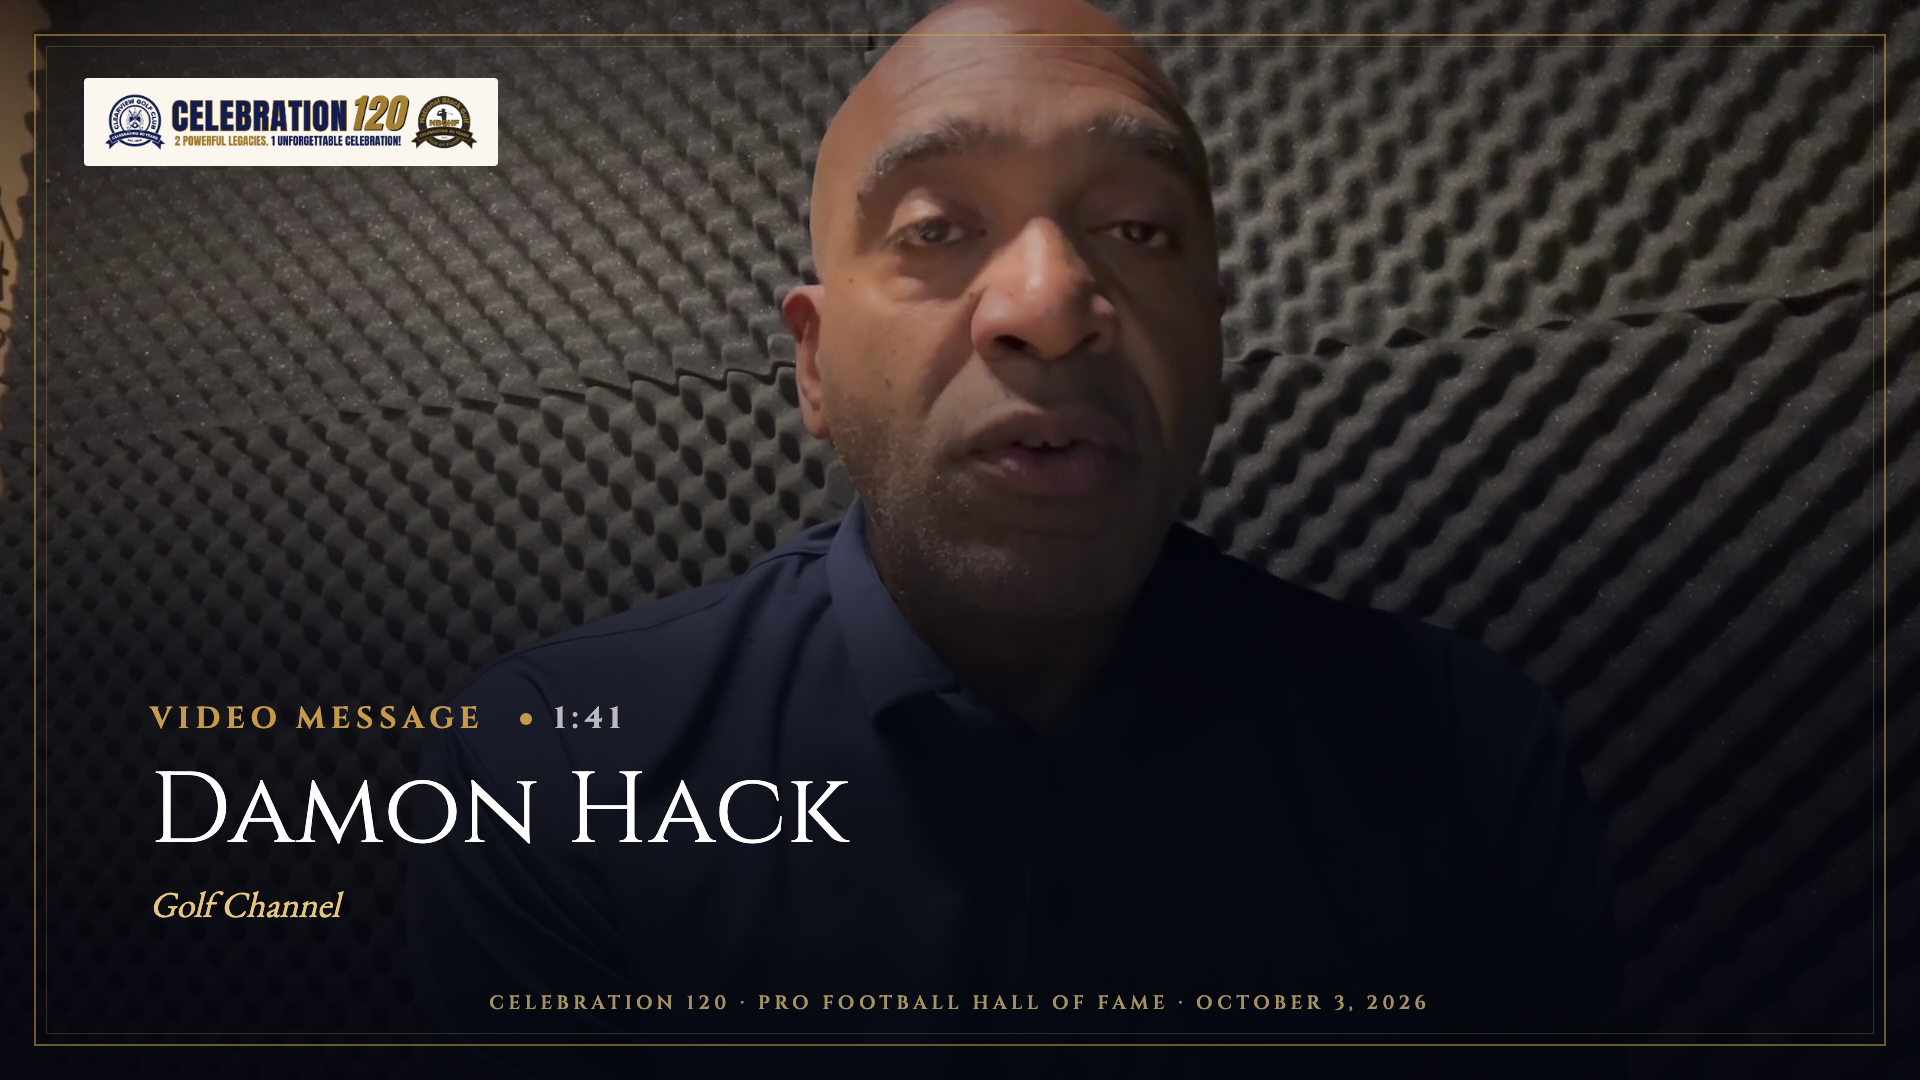
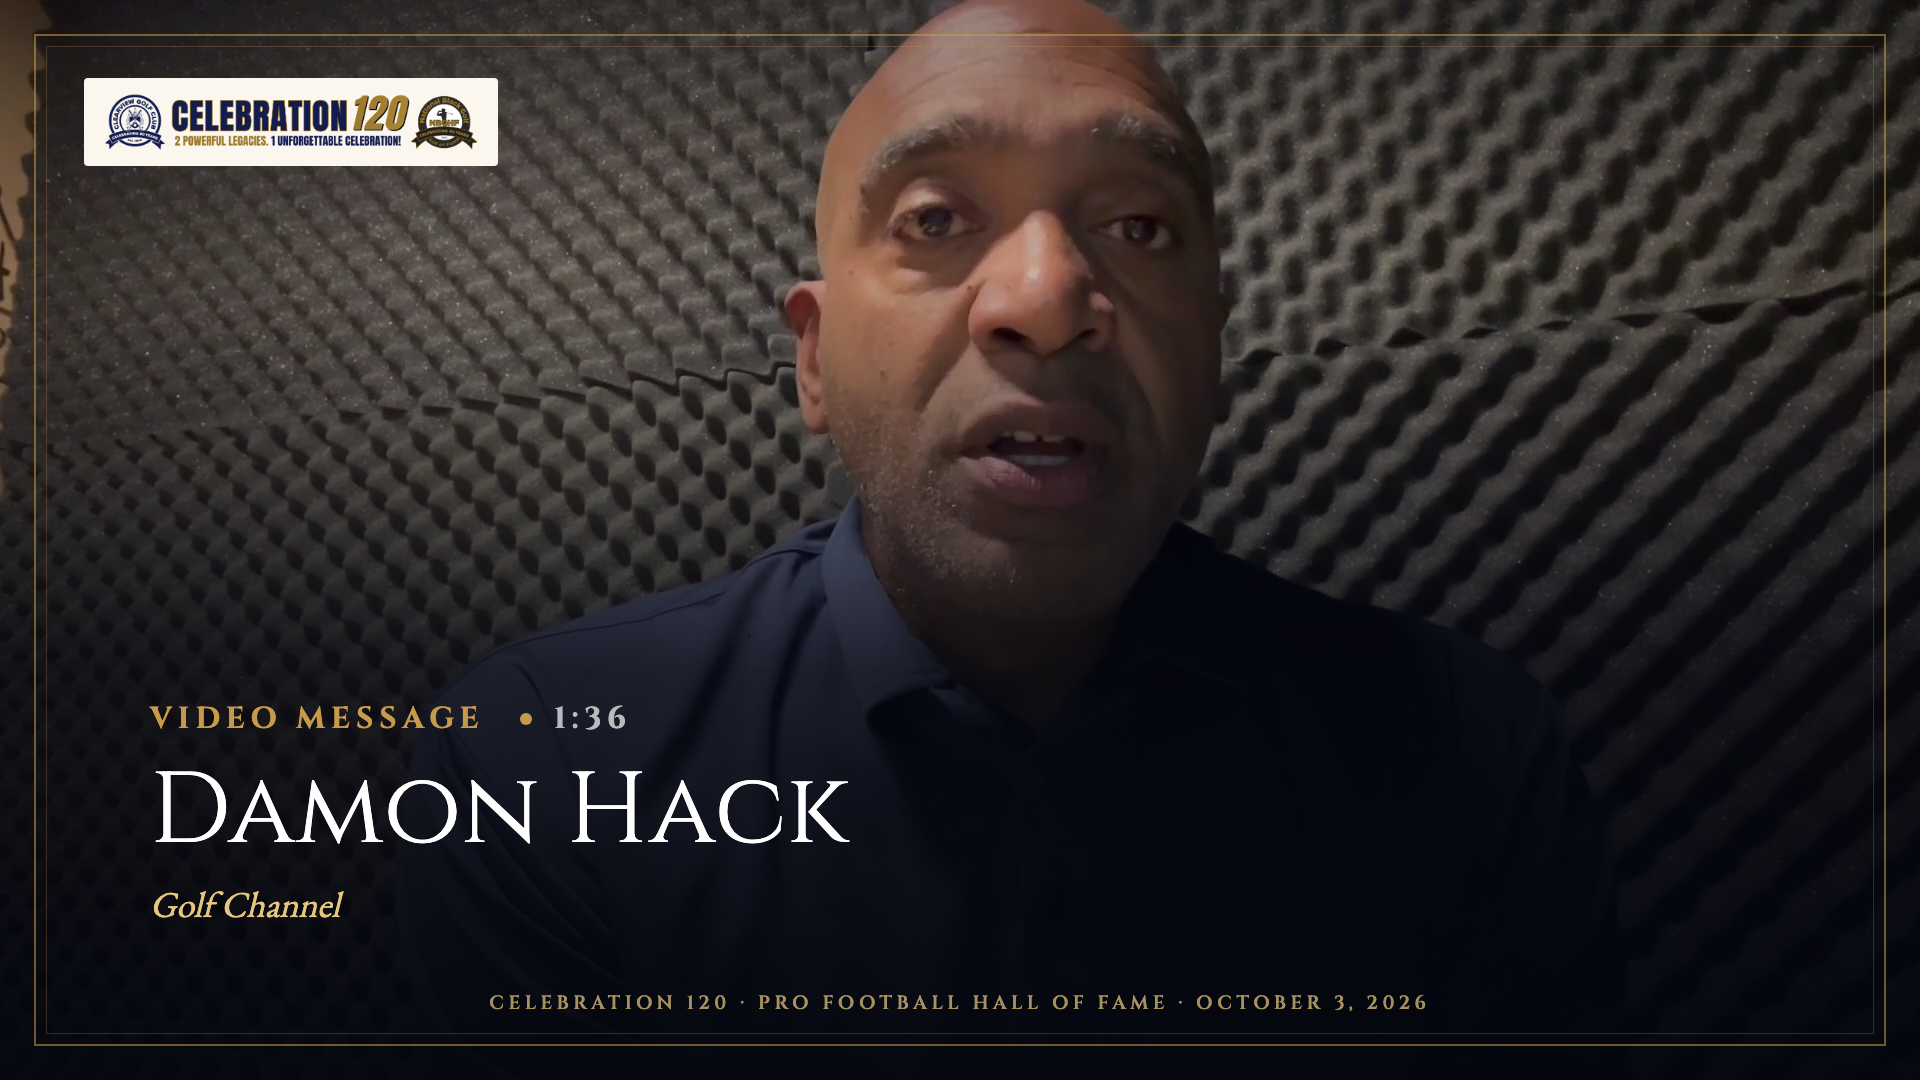
C120 show: new Pete and Damon run times

diff --git a/c120-show/index.html b/c120-show/index.html
@@ -26,7 +26,7 @@ body.presenting{cursor:none}body.presenting #panel{display:none}
 <p class="quiet">Videos start when you advance into their cue. At the end, they hold until you advance. Escape exits fullscreen. Hide these controls before the audience sees the screen. Keep this file beside the slides and videos folders.</p>
 </section>
 <script>
-const cues=[{"slug": "01_title", "image": "01_title.png", "notes": "WALK-IN LOOP: first five slides, through 04_legacies. Loop these while guests arrive and are seated.", "video": null, "poster": "01_title.png", "optional": false, "available": true}, {"slug": "02_hosts", "image": "02_hosts.png", "notes": "Walk-in loop. Event hosts, as printed in the program.", "video": null, "poster": "02_hosts.png", "optional": false, "available": true}, {"slug": "03_auction_walkin", "image": "03_auction_walkin.png", "notes": "Walk-in loop. Silent auction.", "video": null, "poster": "03_auction_walkin.png", "optional": false, "available": true}, {"slug": "03c_sponsors", "image": "03c_sponsors.png", "notes": "Walk-in loop. Thank you to our sponsors.", "video": null, "poster": "03c_sponsors.png", "optional": false, "available": true}, {"slug": "04_legacies", "image": "04_legacies.png", "notes": "Walk-in loop. The two founders.", "video": null, "poster": "04_legacies.png", "optional": false, "available": true}, {"slug": "05_opening_poem", "image": "05_opening_poem.png", "notes": "PROGRAM BEGINS. Advance to the next slide and PLAY: Valada's opening (3:00) runs straight into the announcer introducing Craig Kirby (0:58). One file, 3:58.", "video": null, "poster": "05_opening_poem.png", "optional": false, "available": true}, {"slug": "06_VIDEO_valada_mc", "image": null, "notes": "VIDEO 1. Valada Parker-Flewellyn, then the MC introduction. 3:58. When it ends Craig Kirby takes the stage; advance to Welcome.", "video": "00_Valada_Welcome_then_MC_Intro.mp4", "poster": "05_opening_poem.png", "optional": false, "available": true, "duration": 238.193}, {"slug": "07_welcome", "image": "07_welcome.png", "notes": "Craig Kirby, Master of Ceremonies.", "video": null, "poster": "07_welcome.png", "optional": false, "available": true}, {"slug": "08_invocation", "image": "08_invocation.png", "notes": "Invocation.", "video": null, "poster": "08_invocation.png", "optional": false, "available": true}, {"slug": "09_winners", "image": "09_winners.png", "notes": "Tournament winners from Saturday's golf at Clearview. If John sends winner names in time, a slide can follow.", "video": null, "poster": "09_winners.png", "optional": false, "available": true}, {"slug": "10_occasion", "image": "10_occasion.png", "notes": "Occasion. Ashaunta Epps.", "video": null, "poster": "10_occasion.png", "optional": false, "available": true}, {"slug": "11_committee", "image": "11_committee.png", "notes": "Advisory Committee Welcome. The twelve committee members are listed.", "video": null, "poster": "11_committee.png", "optional": false, "available": true}, {"slug": "12_lpga_pga", "image": "12_lpga_pga.png", "notes": "Recognition of LPGA and PGA members in the room.", "video": null, "poster": "12_lpga_pga.png", "optional": false, "available": true}, {"slug": "13_player_card", "image": "13_player_card.png", "notes": "Gary Player's video. IF THE VIDEO HAS ARRIVED, it plays on the next slide. If not, skip the next slide.", "video": null, "poster": "13_player_card.png", "optional": false, "available": true}, {"slug": "14_VIDEO_player", "image": "14_VIDEO_player.png", "notes": "Gary Player video. Play, then advance to Dinner when it ends.", "video": "04_Gary_Player_Message.mp4", "poster": "14_VIDEO_player.png", "optional": false, "available": true, "duration": 250.8}, {"slug": "15_dinner", "image": "15_dinner.png", "notes": "DINNER. Hold here, or loop the dinner, auction and legacy slides.", "video": null, "poster": "15_dinner.png", "optional": false, "available": true}, {"slug": "16_auction_lastcall", "image": "16_auction_lastcall.png", "notes": "Put this up around 8:15 PM. The auction closes at 8:30 PM.", "video": null, "poster": "16_auction_lastcall.png", "optional": false, "available": true}, {"slug": "17_damon_card", "image": "17_damon_card.png", "notes": "OPTIONAL. Damon Hack is not in the printed program. Play during dinner if John wants it.", "video": null, "poster": "17_damon_card.png", "optional": true, "available": true}, {"slug": "18_VIDEO_damon", "image": null, "notes": "VIDEO: Damon Hack, Golf Channel. 1:41. Optional, not in the printed program.", "video": "02_Damon_Hack_Golf_Channel.mp4", "poster": "17_damon_card.png", "optional": true, "available": true, "duration": 100.6}, {"slug": "19_class_intro", "image": "19_class_intro.png", "notes": "Jeff introduces the Class of 2027. Advance one inductee at a time.", "video": null, "poster": "19_class_intro.png", "optional": false, "available": true}, {"slug": "20_c27_clearview", "image": "20_c27_clearview.png", "notes": "Class of 2027: Clearview Golf Club.", "video": null, "poster": "20_c27_clearview.png", "optional": false, "available": true}, {"slug": "21_c27_stokes", "image": "21_c27_stokes.png", "notes": "Class of 2027: Ralph Stokes.", "video": null, "poster": "21_c27_stokes.png", "optional": false, "available": true}, {"slug": "22_c27_bentley", "image": "22_c27_bentley.png", "notes": "Class of 2027: Ken Bentley.", "video": null, "poster": "22_c27_bentley.png", "optional": false, "available": true}, {"slug": "23_c27_bacoate", "image": "23_c27_bacoate.png", "notes": "Class of 2027: Matthew Bacoate Jr.", "video": null, "poster": "23_c27_bacoate.png", "optional": false, "available": true}, {"slug": "24_c27_meekins", "image": "24_c27_meekins.png", "notes": "Class of 2027: Phyllis Meekins.", "video": null, "poster": "24_c27_meekins.png", "optional": false, "available": true}, {"slug": "25_c27_all", "image": "25_c27_all.png", "notes": "The full Class of 2027.", "video": null, "poster": "25_c27_all.png", "optional": false, "available": true}, {"slug": "26_jaw_intro", "image": "26_jaw_intro.png", "notes": "Jeff on the new John A. White facility. Two renderings follow.", "video": null, "poster": "26_jaw_intro.png", "optional": false, "available": true}, {"slug": "27_jaw_terrace", "image": "27_jaw_terrace.png", "notes": "John A. White rendering.", "video": null, "poster": "27_jaw_terrace.png", "optional": false, "available": true}, {"slug": "28_jaw_entrance", "image": "28_jaw_entrance.png", "notes": "John A. White rendering.", "video": null, "poster": "28_jaw_entrance.png", "optional": false, "available": true}, {"slug": "29_pete_card", "image": "29_pete_card.png", "notes": "Pete McDaniel's video is next.", "video": null, "poster": "29_pete_card.png", "optional": false, "available": true}, {"slug": "30_VIDEO_pete", "image": null, "notes": "VIDEO 2. Pete McDaniel. 3:07.", "video": "01_Pete_McDaniel_Message.mp4", "poster": "29_pete_card.png", "optional": false, "available": true, "duration": 186.7}, {"slug": "31_lookback", "image": "31_lookback.png", "notes": "A Look Back and Ahead. Jeff Dunovant and Renee Powell.", "video": null, "poster": "31_lookback.png", "optional": false, "available": true}, {"slug": "32_volunteers", "image": "32_volunteers.png", "notes": "Volunteer recognition and the toast.", "video": null, "poster": "32_volunteers.png", "optional": false, "available": true}, {"slug": "33_closing_card", "image": "33_closing_card.png", "notes": "The closing video tribute is next.", "video": null, "poster": "33_closing_card.png", "optional": false, "available": true}, {"slug": "34_VIDEO_closing", "image": null, "notes": "VIDEO 4. Closing tribute, Cultivating Land and Legacy. 3:14.", "video": "03_Closing_Video_Cultivating_Land_and_Legacy_Playback.mp4", "poster": "33_closing_card.png", "optional": false, "available": true, "duration": 193.898}, {"slug": "35_closing_remarks", "image": "35_closing_remarks.png", "notes": "Closing remarks.", "video": null, "poster": "35_closing_remarks.png", "optional": false, "available": true}, {"slug": "36_benediction", "image": "36_benediction.png", "notes": "Benediction.", "video": null, "poster": "36_benediction.png", "optional": false, "available": true}, {"slug": "36b_sponsors", "image": "36b_sponsors.png", "notes": "Thank you to our sponsors, before the closing slide.", "video": null, "poster": "36b_sponsors.png", "optional": false, "available": true}, {"slug": "37_goodnight", "image": "37_goodnight.png", "notes": "End of program. Hold on this slide.", "video": null, "poster": "37_goodnight.png", "optional": false, "available": true}];
+const cues=[{"slug": "01_title", "image": "01_title.png", "notes": "WALK-IN LOOP: first five slides, through 04_legacies. Loop these while guests arrive and are seated.", "video": null, "poster": "01_title.png", "optional": false, "available": true}, {"slug": "02_hosts", "image": "02_hosts.png", "notes": "Walk-in loop. Event hosts, as printed in the program.", "video": null, "poster": "02_hosts.png", "optional": false, "available": true}, {"slug": "03_auction_walkin", "image": "03_auction_walkin.png", "notes": "Walk-in loop. Silent auction.", "video": null, "poster": "03_auction_walkin.png", "optional": false, "available": true}, {"slug": "03c_sponsors", "image": "03c_sponsors.png", "notes": "Walk-in loop. Thank you to our sponsors.", "video": null, "poster": "03c_sponsors.png", "optional": false, "available": true}, {"slug": "04_legacies", "image": "04_legacies.png", "notes": "Walk-in loop. The two founders.", "video": null, "poster": "04_legacies.png", "optional": false, "available": true}, {"slug": "05_opening_poem", "image": "05_opening_poem.png", "notes": "PROGRAM BEGINS. Advance to the next slide and PLAY: Valada's opening (3:00) runs straight into the announcer introducing Craig Kirby (0:58). One file, 3:58.", "video": null, "poster": "05_opening_poem.png", "optional": false, "available": true}, {"slug": "06_VIDEO_valada_mc", "image": null, "notes": "VIDEO 1. Valada Parker-Flewellyn, then the MC introduction. 3:58. When it ends Craig Kirby takes the stage; advance to Welcome.", "video": "00_Valada_Welcome_then_MC_Intro.mp4", "poster": "05_opening_poem.png", "optional": false, "available": true, "duration": 238.193}, {"slug": "07_welcome", "image": "07_welcome.png", "notes": "Craig Kirby, Master of Ceremonies.", "video": null, "poster": "07_welcome.png", "optional": false, "available": true}, {"slug": "08_invocation", "image": "08_invocation.png", "notes": "Invocation.", "video": null, "poster": "08_invocation.png", "optional": false, "available": true}, {"slug": "09_winners", "image": "09_winners.png", "notes": "Tournament winners from Saturday's golf at Clearview. If John sends winner names in time, a slide can follow.", "video": null, "poster": "09_winners.png", "optional": false, "available": true}, {"slug": "10_occasion", "image": "10_occasion.png", "notes": "Occasion. Ashaunta Epps.", "video": null, "poster": "10_occasion.png", "optional": false, "available": true}, {"slug": "11_committee", "image": "11_committee.png", "notes": "Advisory Committee Welcome. The twelve committee members are listed.", "video": null, "poster": "11_committee.png", "optional": false, "available": true}, {"slug": "12_lpga_pga", "image": "12_lpga_pga.png", "notes": "Recognition of LPGA and PGA members in the room.", "video": null, "poster": "12_lpga_pga.png", "optional": false, "available": true}, {"slug": "13_player_card", "image": "13_player_card.png", "notes": "Gary Player's video. IF THE VIDEO HAS ARRIVED, it plays on the next slide. If not, skip the next slide.", "video": null, "poster": "13_player_card.png", "optional": false, "available": true}, {"slug": "14_VIDEO_player", "image": "14_VIDEO_player.png", "notes": "Gary Player video. Play, then advance to Dinner when it ends.", "video": "04_Gary_Player_Message.mp4", "poster": "14_VIDEO_player.png", "optional": false, "available": true, "duration": 250.8}, {"slug": "15_dinner", "image": "15_dinner.png", "notes": "DINNER. Hold here, or loop the dinner, auction and legacy slides.", "video": null, "poster": "15_dinner.png", "optional": false, "available": true}, {"slug": "16_auction_lastcall", "image": "16_auction_lastcall.png", "notes": "Put this up around 8:15 PM. The auction closes at 8:30 PM.", "video": null, "poster": "16_auction_lastcall.png", "optional": false, "available": true}, {"slug": "17_damon_card", "image": "17_damon_card.png", "notes": "OPTIONAL. Damon Hack is not in the printed program. Play during dinner if John wants it.", "video": null, "poster": "17_damon_card.png", "optional": true, "available": true}, {"slug": "18_VIDEO_damon", "image": null, "notes": "VIDEO: Damon Hack, Golf Channel. 1:36. Optional, not in the printed program.", "video": "02_Damon_Hack_Golf_Channel.mp4", "poster": "17_damon_card.png", "optional": true, "available": true, "duration": 100.6}, {"slug": "19_class_intro", "image": "19_class_intro.png", "notes": "Jeff introduces the Class of 2027. Advance one inductee at a time.", "video": null, "poster": "19_class_intro.png", "optional": false, "available": true}, {"slug": "20_c27_clearview", "image": "20_c27_clearview.png", "notes": "Class of 2027: Clearview Golf Club.", "video": null, "poster": "20_c27_clearview.png", "optional": false, "available": true}, {"slug": "21_c27_stokes", "image": "21_c27_stokes.png", "notes": "Class of 2027: Ralph Stokes.", "video": null, "poster": "21_c27_stokes.png", "optional": false, "available": true}, {"slug": "22_c27_bentley", "image": "22_c27_bentley.png", "notes": "Class of 2027: Ken Bentley.", "video": null, "poster": "22_c27_bentley.png", "optional": false, "available": true}, {"slug": "23_c27_bacoate", "image": "23_c27_bacoate.png", "notes": "Class of 2027: Matthew Bacoate Jr.", "video": null, "poster": "23_c27_bacoate.png", "optional": false, "available": true}, {"slug": "24_c27_meekins", "image": "24_c27_meekins.png", "notes": "Class of 2027: Phyllis Meekins.", "video": null, "poster": "24_c27_meekins.png", "optional": false, "available": true}, {"slug": "25_c27_all", "image": "25_c27_all.png", "notes": "The full Class of 2027.", "video": null, "poster": "25_c27_all.png", "optional": false, "available": true}, {"slug": "26_jaw_intro", "image": "26_jaw_intro.png", "notes": "Jeff on the new John A. White facility. Two renderings follow.", "video": null, "poster": "26_jaw_intro.png", "optional": false, "available": true}, {"slug": "27_jaw_terrace", "image": "27_jaw_terrace.png", "notes": "John A. White rendering.", "video": null, "poster": "27_jaw_terrace.png", "optional": false, "available": true}, {"slug": "28_jaw_entrance", "image": "28_jaw_entrance.png", "notes": "John A. White rendering.", "video": null, "poster": "28_jaw_entrance.png", "optional": false, "available": true}, {"slug": "29_pete_card", "image": "29_pete_card.png", "notes": "Pete McDaniel's video is next.", "video": null, "poster": "29_pete_card.png", "optional": false, "available": true}, {"slug": "30_VIDEO_pete", "image": null, "notes": "VIDEO 2. Pete McDaniel. 2:51.", "video": "01_Pete_McDaniel_Message.mp4", "poster": "29_pete_card.png", "optional": false, "available": true, "duration": 186.7}, {"slug": "31_lookback", "image": "31_lookback.png", "notes": "A Look Back and Ahead. Jeff Dunovant and Renee Powell.", "video": null, "poster": "31_lookback.png", "optional": false, "available": true}, {"slug": "32_volunteers", "image": "32_volunteers.png", "notes": "Volunteer recognition and the toast.", "video": null, "poster": "32_volunteers.png", "optional": false, "available": true}, {"slug": "33_closing_card", "image": "33_closing_card.png", "notes": "The closing video tribute is next.", "video": null, "poster": "33_closing_card.png", "optional": false, "available": true}, {"slug": "34_VIDEO_closing", "image": null, "notes": "VIDEO 4. Closing tribute, Cultivating Land and Legacy. 3:14.", "video": "03_Closing_Video_Cultivating_Land_and_Legacy_Playback.mp4", "poster": "33_closing_card.png", "optional": false, "available": true, "duration": 193.898}, {"slug": "35_closing_remarks", "image": "35_closing_remarks.png", "notes": "Closing remarks.", "video": null, "poster": "35_closing_remarks.png", "optional": false, "available": true}, {"slug": "36_benediction", "image": "36_benediction.png", "notes": "Benediction.", "video": null, "poster": "36_benediction.png", "optional": false, "available": true}, {"slug": "36b_sponsors", "image": "36b_sponsors.png", "notes": "Thank you to our sponsors, before the closing slide.", "video": null, "poster": "36b_sponsors.png", "optional": false, "available": true}, {"slug": "37_goodnight", "image": "37_goodnight.png", "notes": "End of program. Hold on this slide.", "video": null, "poster": "37_goodnight.png", "optional": false, "available": true}];
 let index=0,loopTimer=null,blacked=false,resumeAfterBlack=false;
 const still=document.getElementById('still'),film=document.getElementById('film'),panel=document.getElementById('panel');
 const jump=document.getElementById('jump'),status=document.getElementById('status'),notes=document.getElementById('notes');

diff --git a/c120-av/index.html b/c120-av/index.html
@@ -26,9 +26,9 @@ Videos are MP4, 1920 x 1080, H.264, with the sound leveled so each plays at the 
 <a class="d" href="C120_Video_1_Valada_Welcome_then_MC_Intro.mp4" download>Download</a></div>
 <div class="f"><div><b>1b. Master of Ceremonies introduction only</b><small>0:58 · the same introduction on its own, if you would rather play it separately</small></div>
 <a class="d" href="C120_Video_1b_MC_Intro_Craig_Kirby_only.mp4" download>Download</a></div>
-<div class="f"><div><b>2. Pete McDaniel, message to the room</b><small>3:07 · 45 MB</small></div>
+<div class="f"><div><b>2. Pete McDaniel, message to the room</b><small>2:51 · 61 MB · edited Oct 3</small></div>
 <a class="d" href="C120_Video_2_Pete_McDaniel.mp4" download>Download</a></div>
-<div class="f"><div><b>3. Damon Hack, Golf Channel</b><small>Message to the room · 1:41 · 45 MB</small></div>
+<div class="f"><div><b>3. Damon Hack, Golf Channel</b><small>Message to the room · 1:36 · 47 MB · edited Oct 3</small></div>
 <a class="d" href="C120_Video_3_Damon_Hack_Golf_Channel.mp4" download>Download</a></div>
 <div class="f"><div><b>4. Closing video: "Cultivating Land and Legacy"</b><small>A tribute to Black golf excellence, by EyeSeeImages · 3:14 · 85 MB. Program note: "the closing video featuring Clearview and the NBGHF."</small></div>
 <a class="d" href="C120_Video_4_Closing_Cultivating_Land_and_Legacy.mp4" download>Download</a></div>
